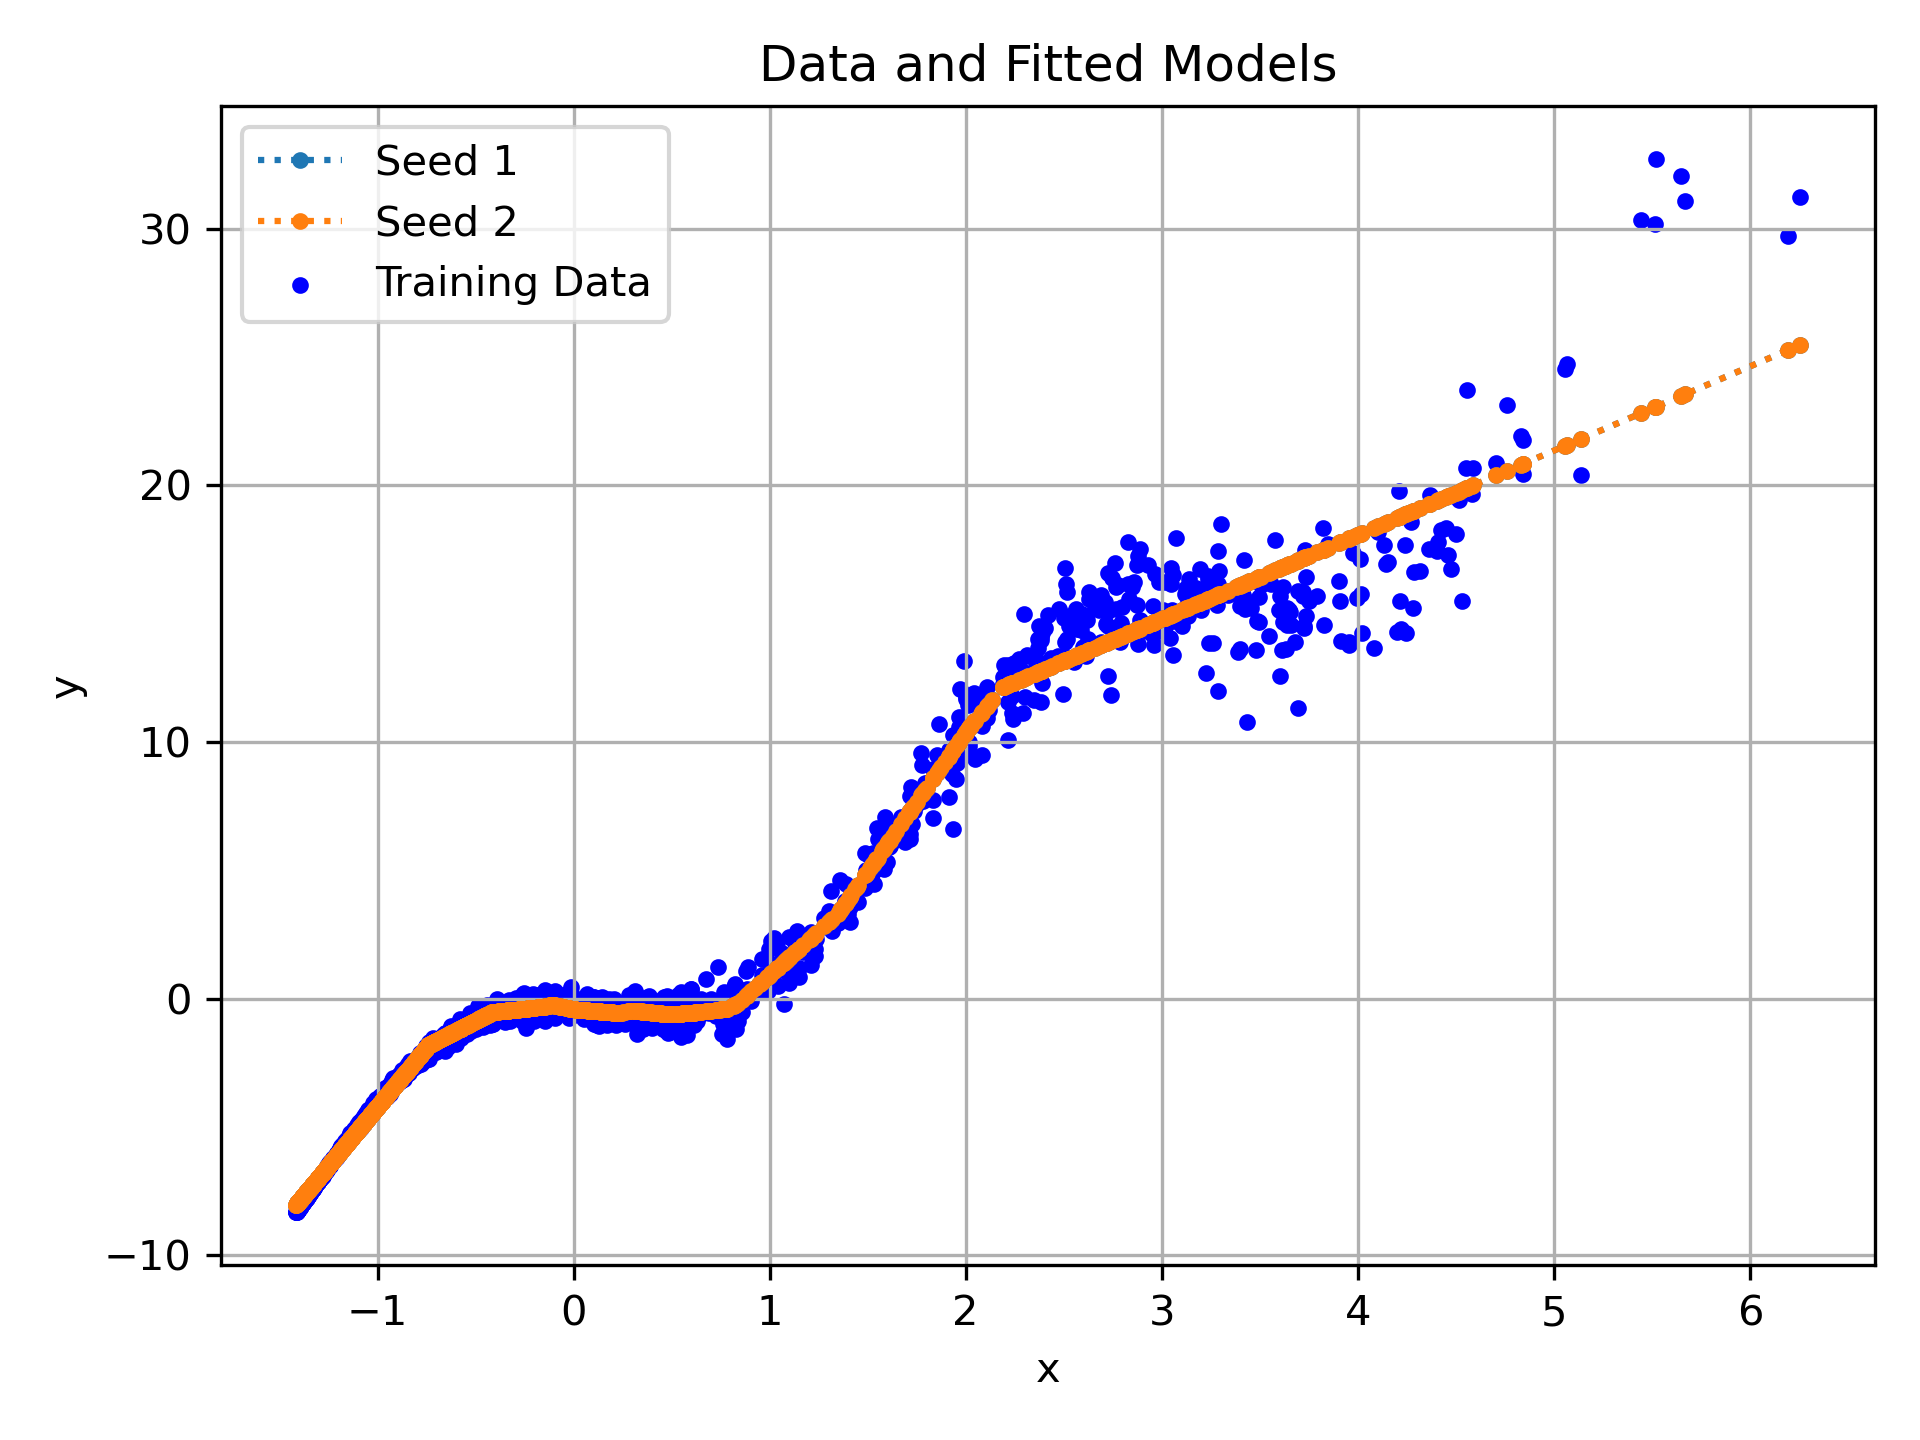
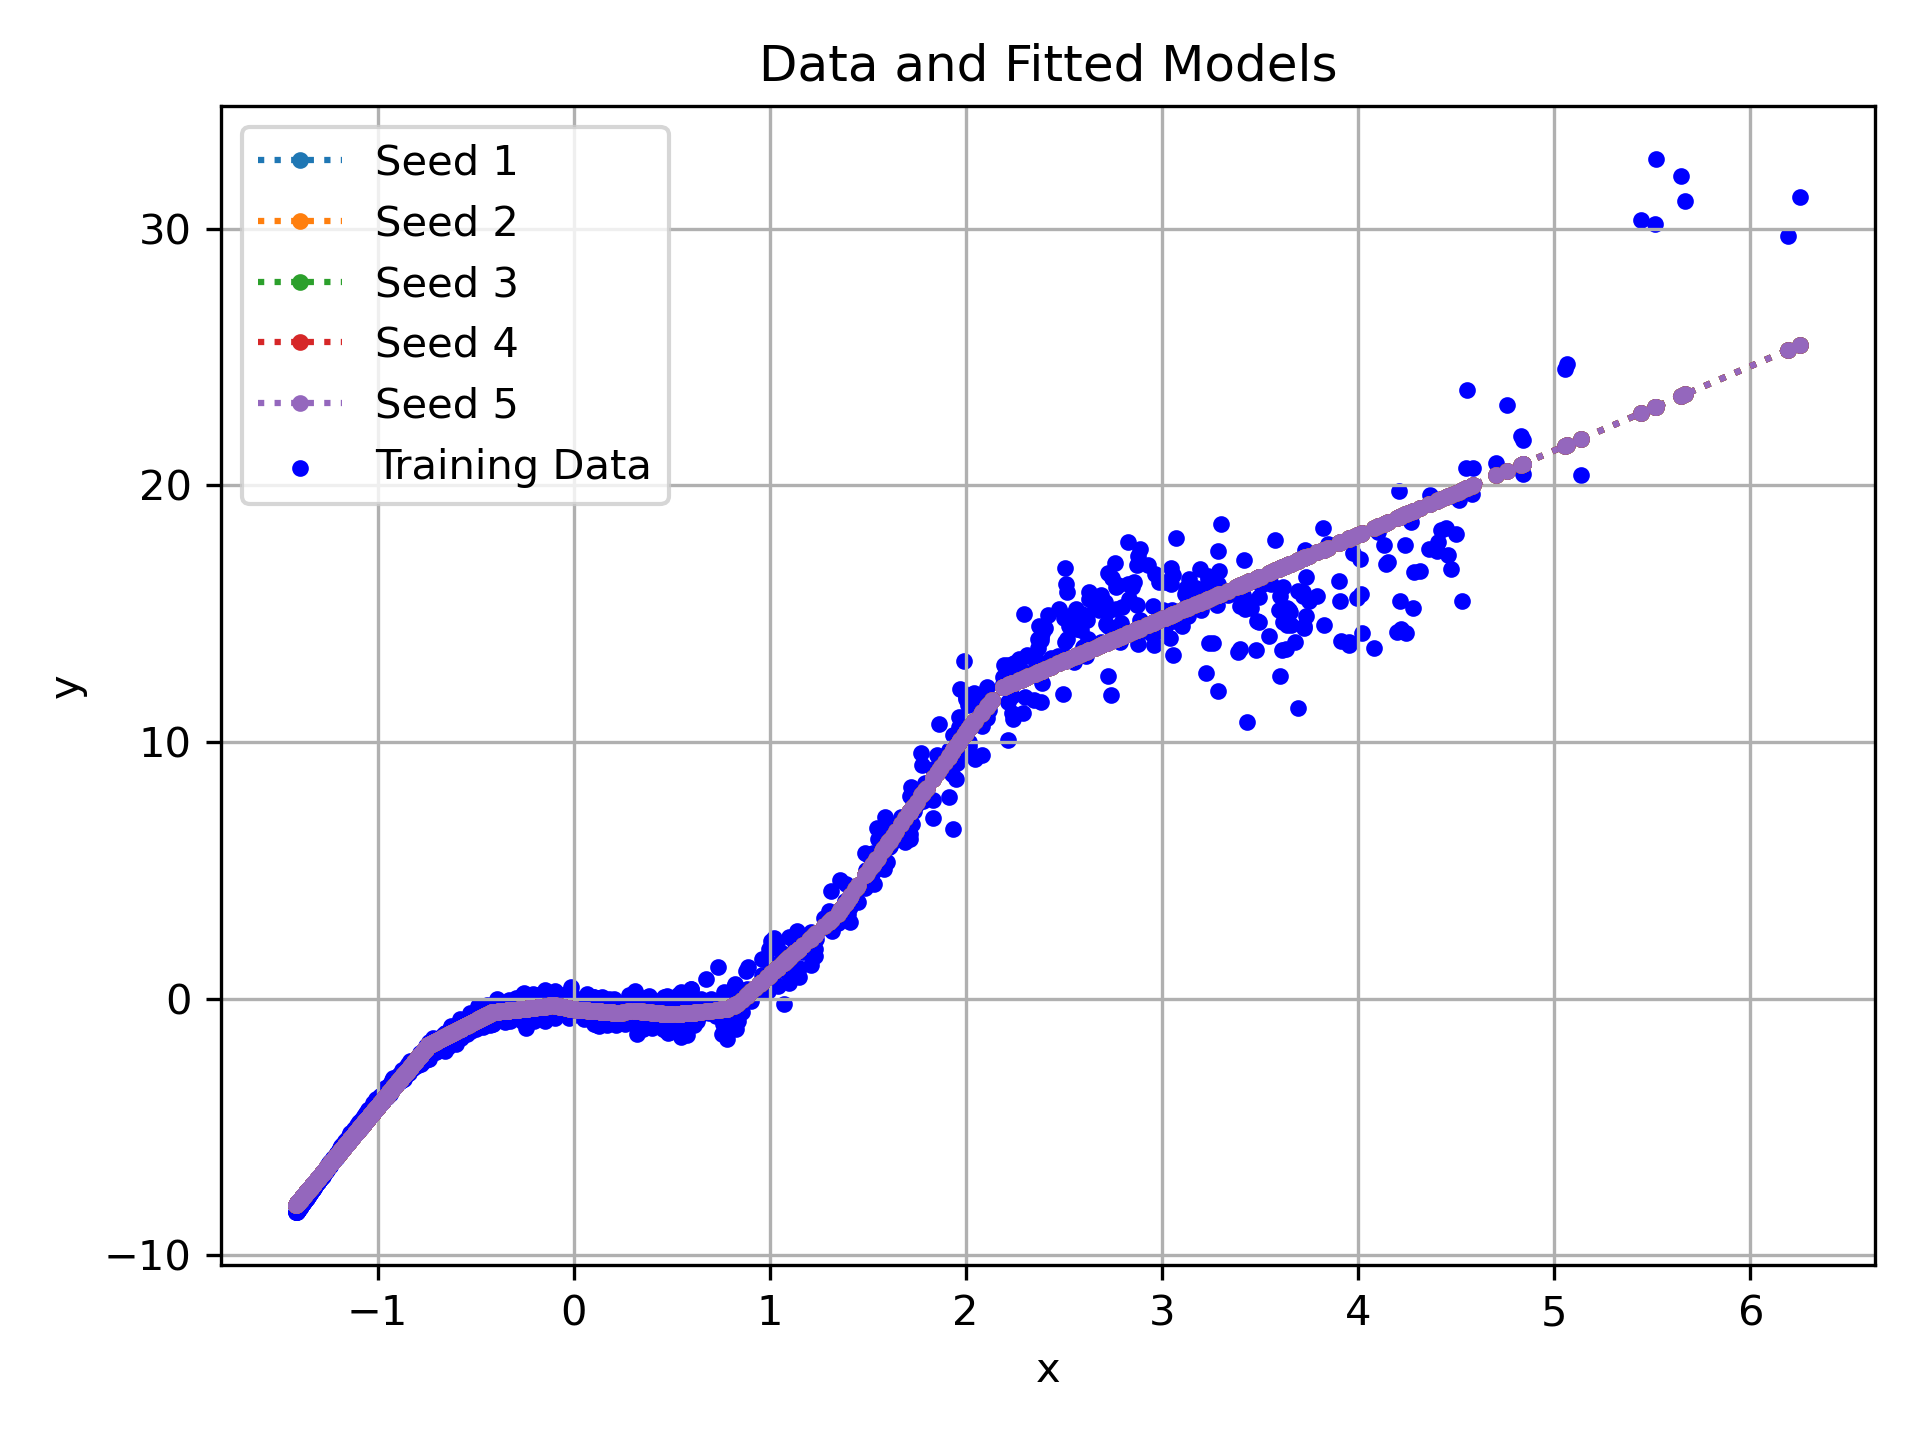
impl train_model() func

diff --git a/homework/hw0/q3.py b/homework/hw0/q3.py
@@ -14,8 +14,10 @@ class MLP(nn.Module):
         self.layer3 = nn.Linear(10, 1)
 
     def forward(self, x):
-        x = torch.relu(self.layer1(x))
-        x = torch.relu(self.layer2(x))
+        x = self.layer1(x)
+        # x = torch.relu(x)
+        x = self.layer2(x)
+        # x = torch.relu(x)
         x = self.layer3(x)
         return x
 
@@ -36,31 +38,31 @@ val_dataset = Q3Dataset(x_val, y_val)
 test_dataset = TensorDataset(x_test)
 
 """
+Set the seed to the last five digits of your student number.
+E.g., if you are student number 160474145, set the seed to 74145.
+"""
+overall_seed = 59989
+
+"""
 Set the seed to the last three digits of your student number.
 E.g., if you are student number 160474145, set the seed to 145.
 """
 model_seed = 989
 
-"""
-TODO: For each seed, plot the fitted model along with the training
-data points. The data samples need to be plotted only once. Follow the
-instructions from q2.py on how to plot the results.
-"""
-seeds_list = [1, 2, 3, 4, 5]
-fig, ax = plt.subplots()
-for seed in seeds_list:
-    torch.manual_seed(seed)
+
+def train_model(_seed, batch_size, lr):
+    """
+    Initializes, trains, and plots a model for the given parameters.
+    """
+    # global seed
+    torch.manual_seed(_seed)
 
     """
     Create dataloaders for each dataset.
     """
-    batch_size = 2000 # Use the entire dataset
-    train_loader = DataLoader(train_dataset, batch_size=batch_size,
-                            shuffle=True, drop_last=True)
-    val_loader = DataLoader(val_dataset, batch_size=batch_size,
-                            shuffle=False, drop_last=False)
-    test_loader = DataLoader(test_dataset, batch_size=batch_size,
-                             shuffle=False, drop_last=False)
+    train_loader = DataLoader(train_dataset, batch_size=batch_size, shuffle=True, drop_last=True)
+    val_loader = DataLoader(val_dataset, batch_size=batch_size, shuffle=False, drop_last=False)
+    test_loader = DataLoader(test_dataset, batch_size=batch_size, shuffle=False, drop_last=False)
 
     """
     Create the MLP as described in the PDF
@@ -87,10 +89,12 @@ for seed in seeds_list:
     weight_decay. Check the usage of the optimizer in the PyTorch documentation.
     Make sure to pass the parameters of model to the optimizer.
     """
-    lr = 1e-2
     weight_decay = 1e-4
-    optimizer = torch.optim.AdamW(model.parameters(), lr=lr,
-                                  weight_decay=weight_decay)
+    optimizer = torch.optim.AdamW(
+        model.parameters(),
+        lr=lr,
+        weight_decay=weight_decay
+    )
 
     """
     Set up the loss function as nn.MSELoss.
@@ -158,19 +162,32 @@ for seed in seeds_list:
 
 
 """
-Complete the model prediction visualization.
+TODO: For each seed, plot the fitted model along with the training
+data points. The data samples need to be plotted only once. Follow the
+instructions from q2.py on how to plot the results.
 """
+seeds_list = [1, 2, 3, 4, 5]
+fig, ax = plt.subplots()
+for seed in seeds_list:
+    train_model(seed, batch_size=2000, lr=1e-2)
+
+# Complete the model prediction visualization.
 ax.scatter(x_train, y_train, label='Training Data', c="blue", marker=".")
 ax.set_xlabel('x')
 ax.set_ylabel('y')
 ax.grid(True)
 ax.set_title('Data and Fitted Models')
 ax.legend()
-
 fig.tight_layout()
 fig.savefig('./results/q3_plot.png', dpi=300)
 plt.clf()
 plt.close(fig)
+
+"""
+Tune the model hyperparameters (batch_size, learning_rate).
+"""
+batch_list = [16, 32, 64]
+lr_list = [0.001, 0.01, 0.1]
 
 """
 # TODO: Run the model on the test set
